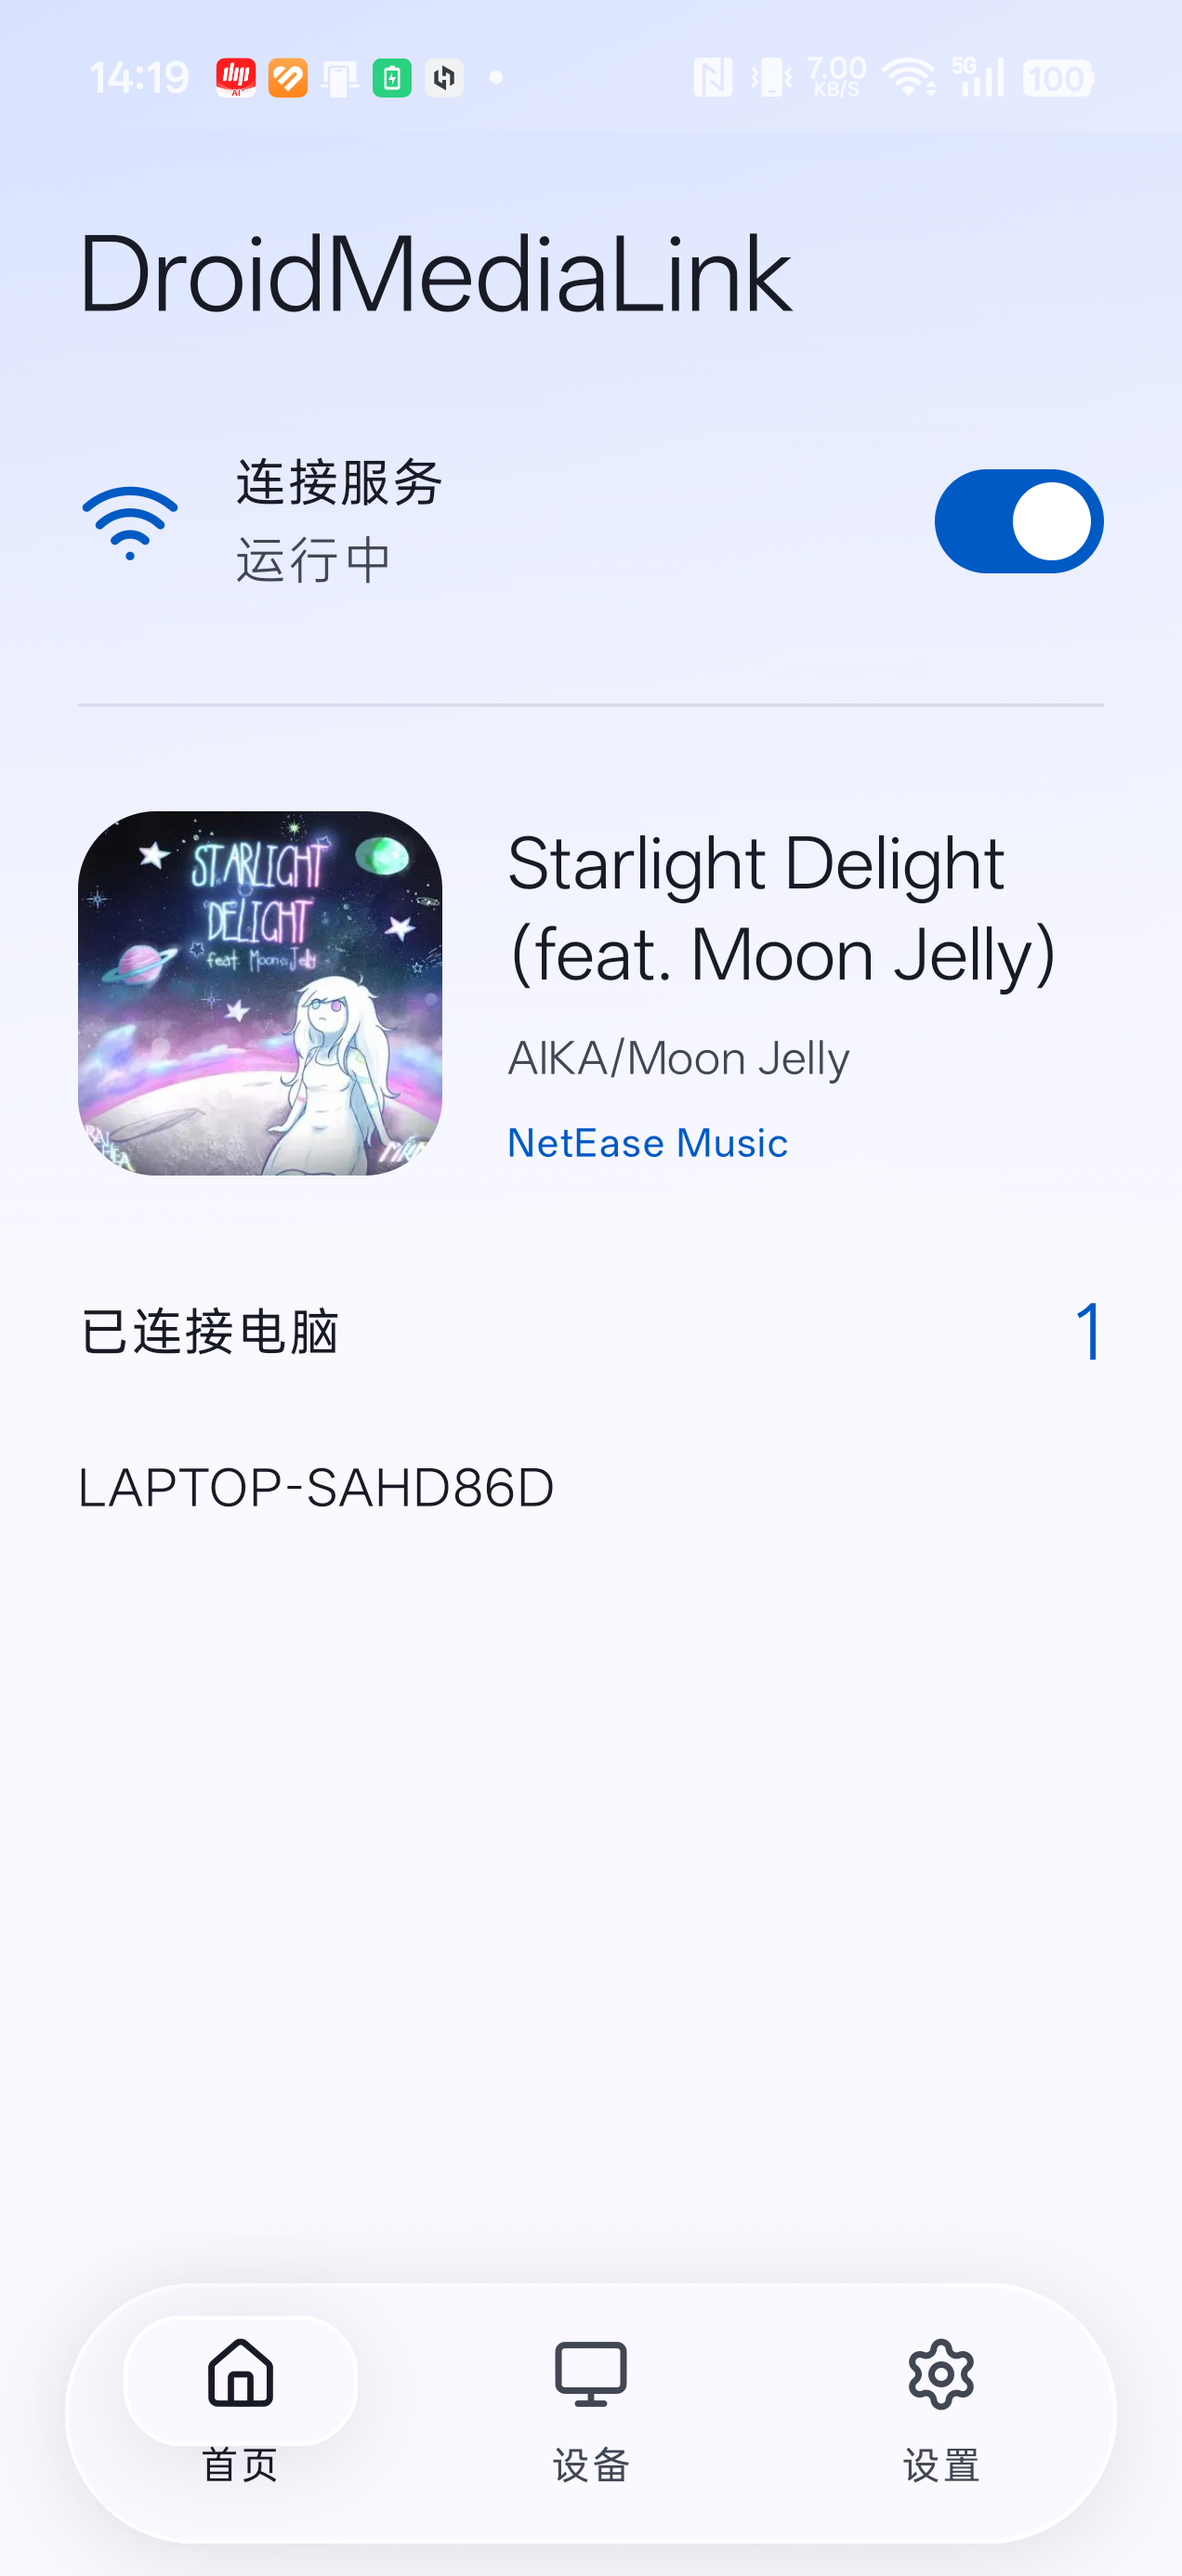
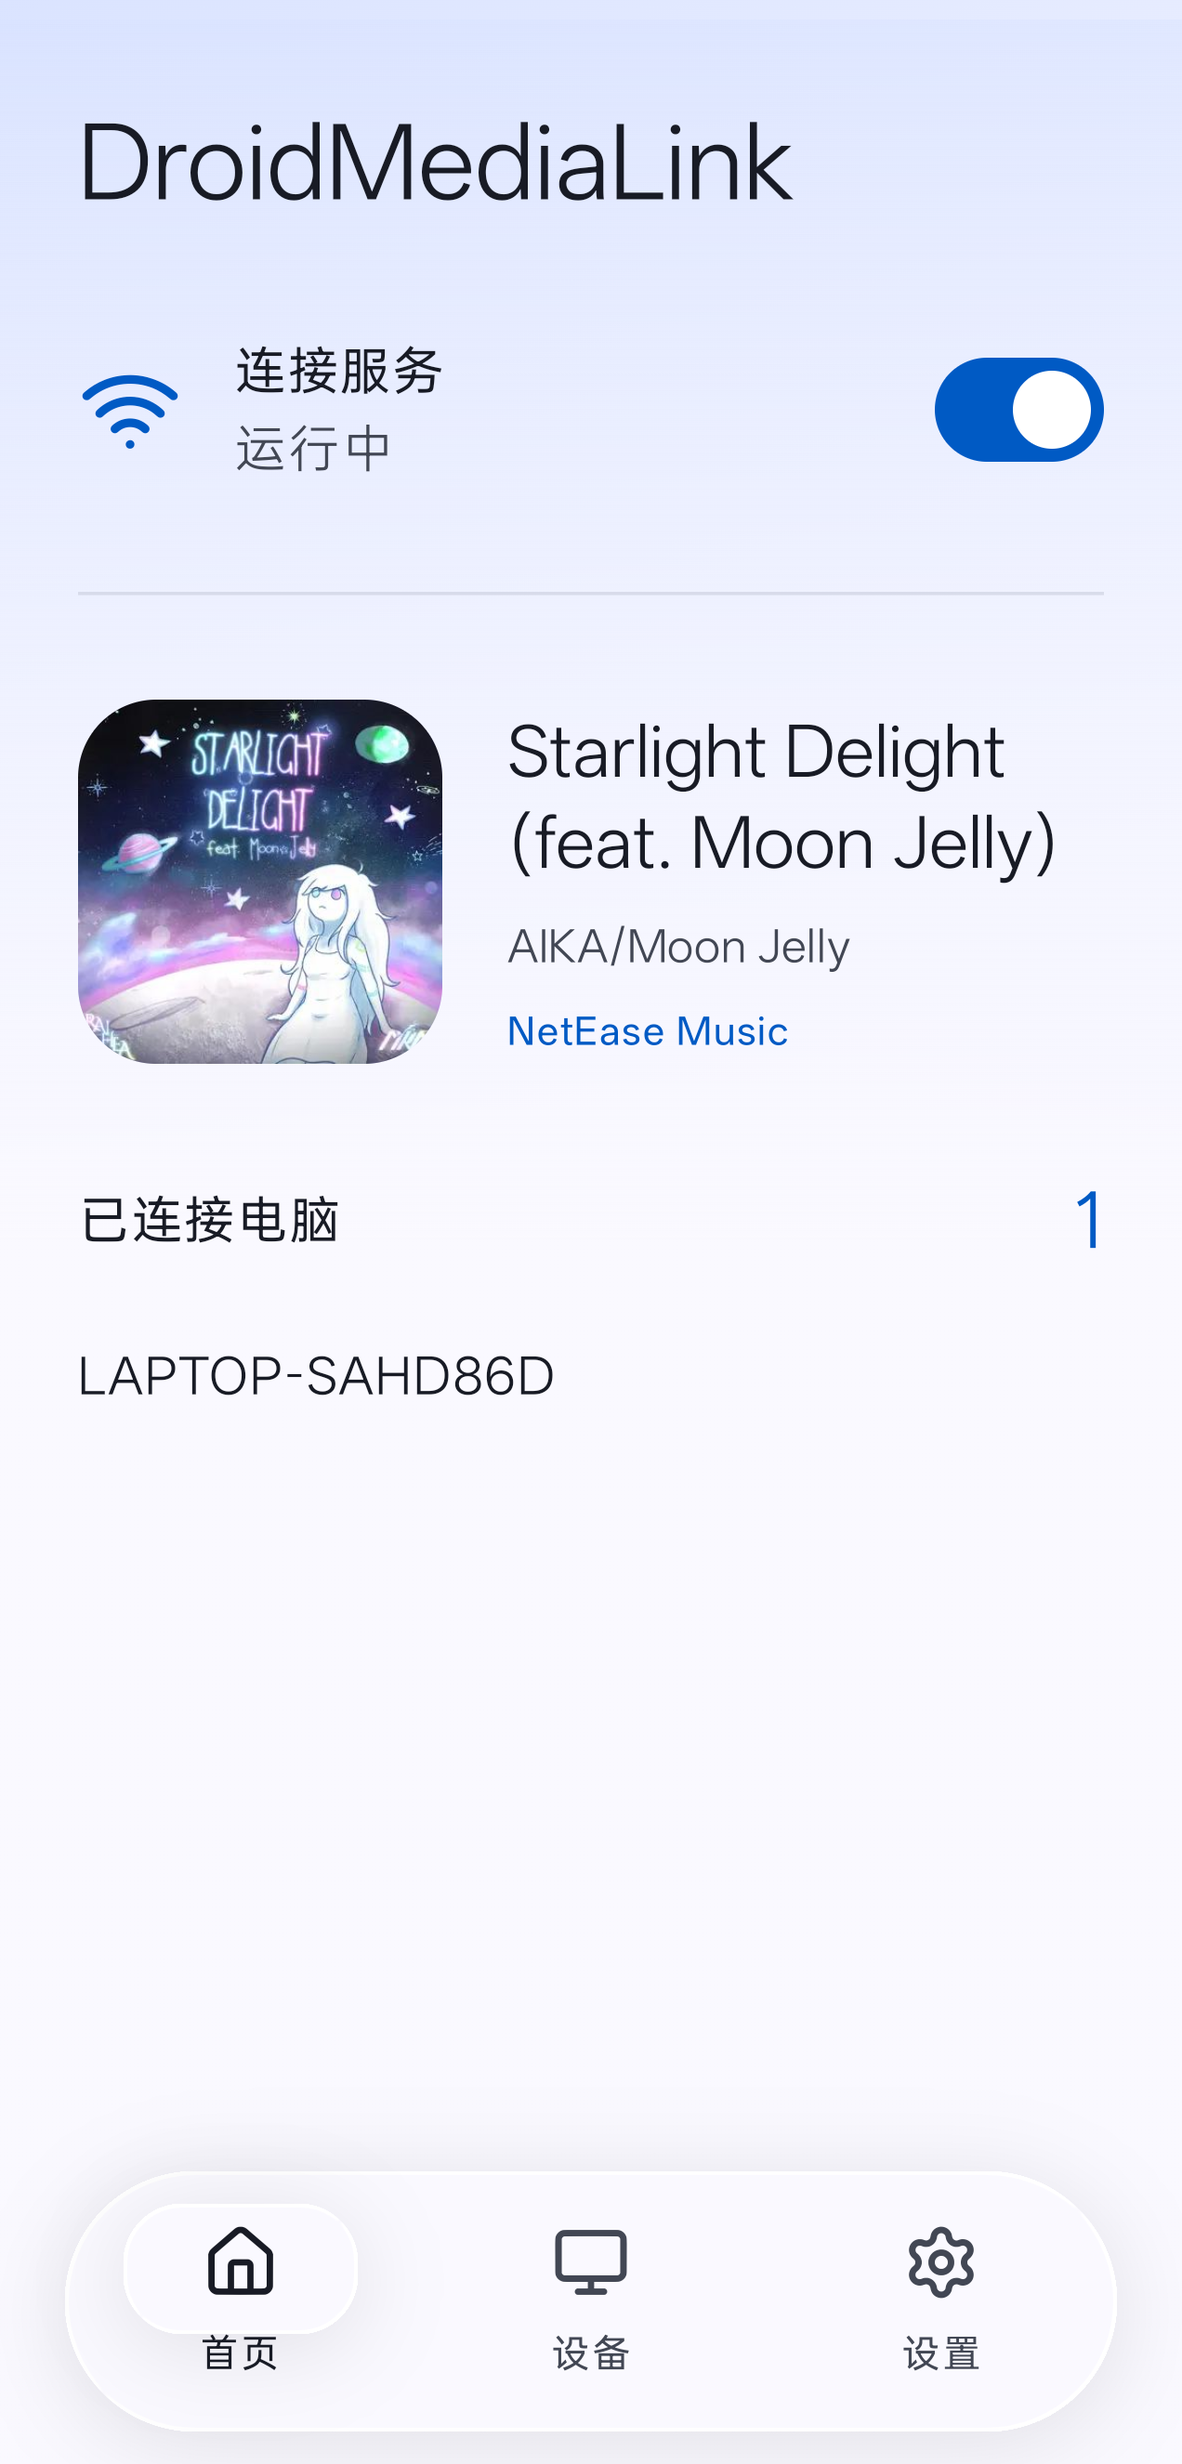
Update README with cropped Android screenshot and Windows demo GIF

diff --git a/README.en.md b/README.en.md
@@ -6,9 +6,11 @@ Bring your Android media session to Windows: artwork, playback controls, synchro
 
 ## Running on real devices
 
+![Windows app in motion](docs/screenshots/windows-demo.gif)
+
 ![Windows connected to an actual Android media session](docs/screenshots/windows-current.png)
 
-<img src="docs/screenshots/android-current.png" width="360" alt="Android app captured on a physical phone using ADB" />
+<img src="docs/screenshots/android-current.png" width="360" alt="Android app on a physical phone, with the status bar cropped" />
 
 These are actual application captures taken at different times, not mockups or preview media.
 

diff --git a/README.md b/README.md
@@ -8,9 +8,11 @@
 
 Windows 客户端连接真实手机媒体会话的播放画面，使用当前默认外观与歌词配置。
 
+![Windows 实际运行动图](docs/screenshots/windows-demo.gif)
+
 ![Windows 实际播放：封面氛围、同步歌词和胶囊控制栏](docs/screenshots/windows-current.png)
 
-Android 应用通过 ADB 在真实设备上截取；截图与 Windows 画面拍摄于不同时间。
+Android 实机截图已裁去状态栏；截图与 Windows 画面拍摄于不同时间。
 
 <img src="docs/screenshots/android-current.png" width="360" alt="Android 实机：连接服务与当前媒体" />
 
